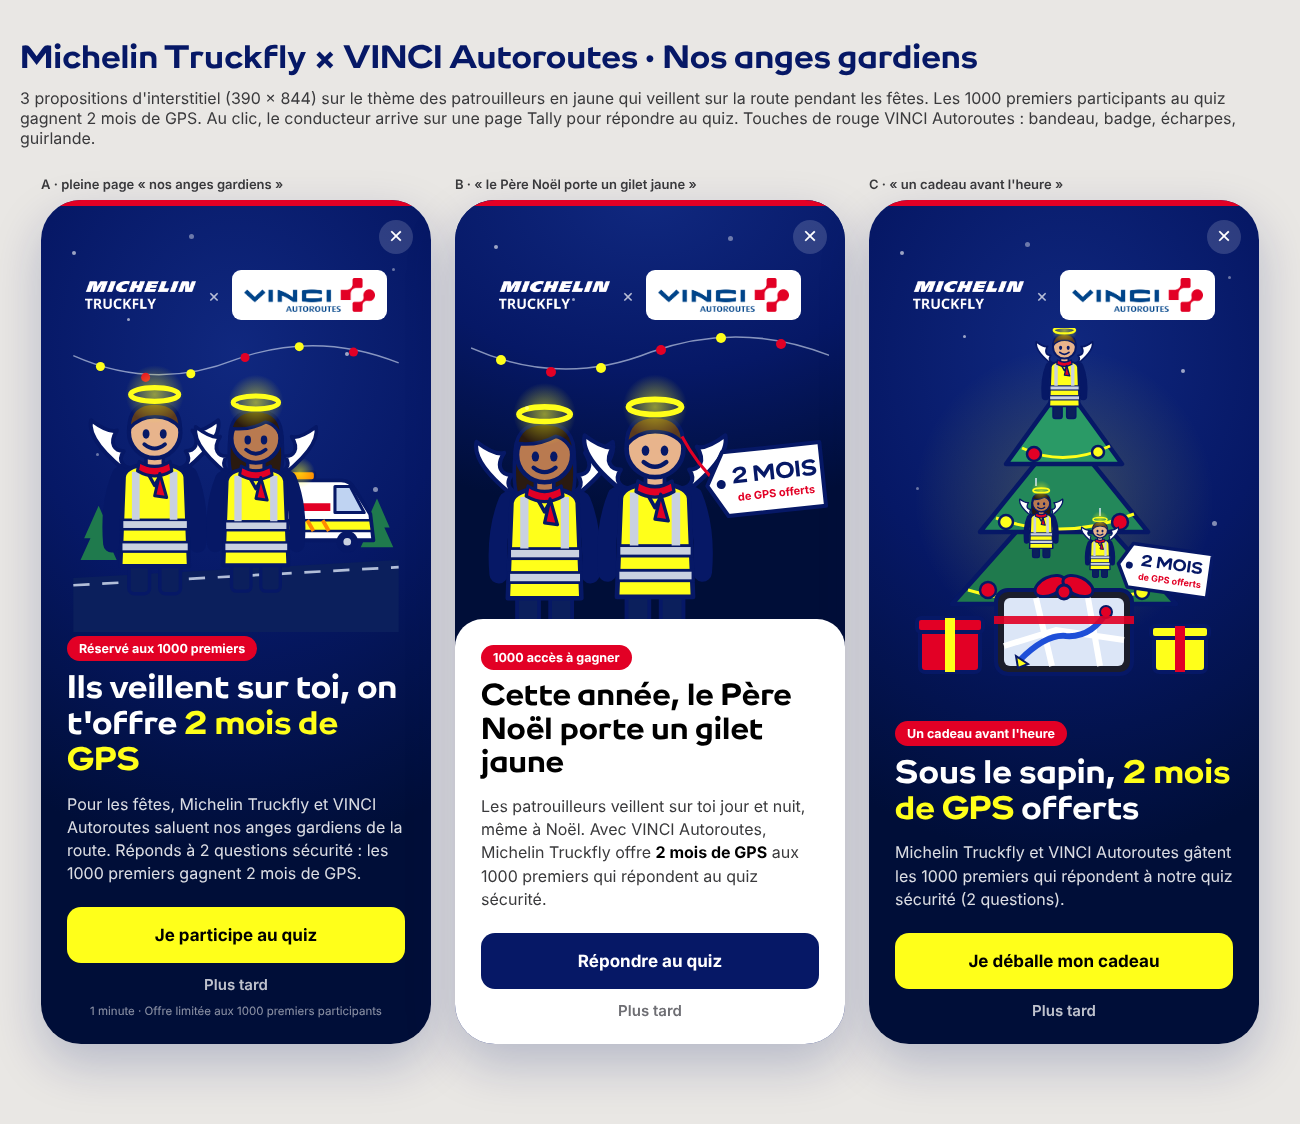
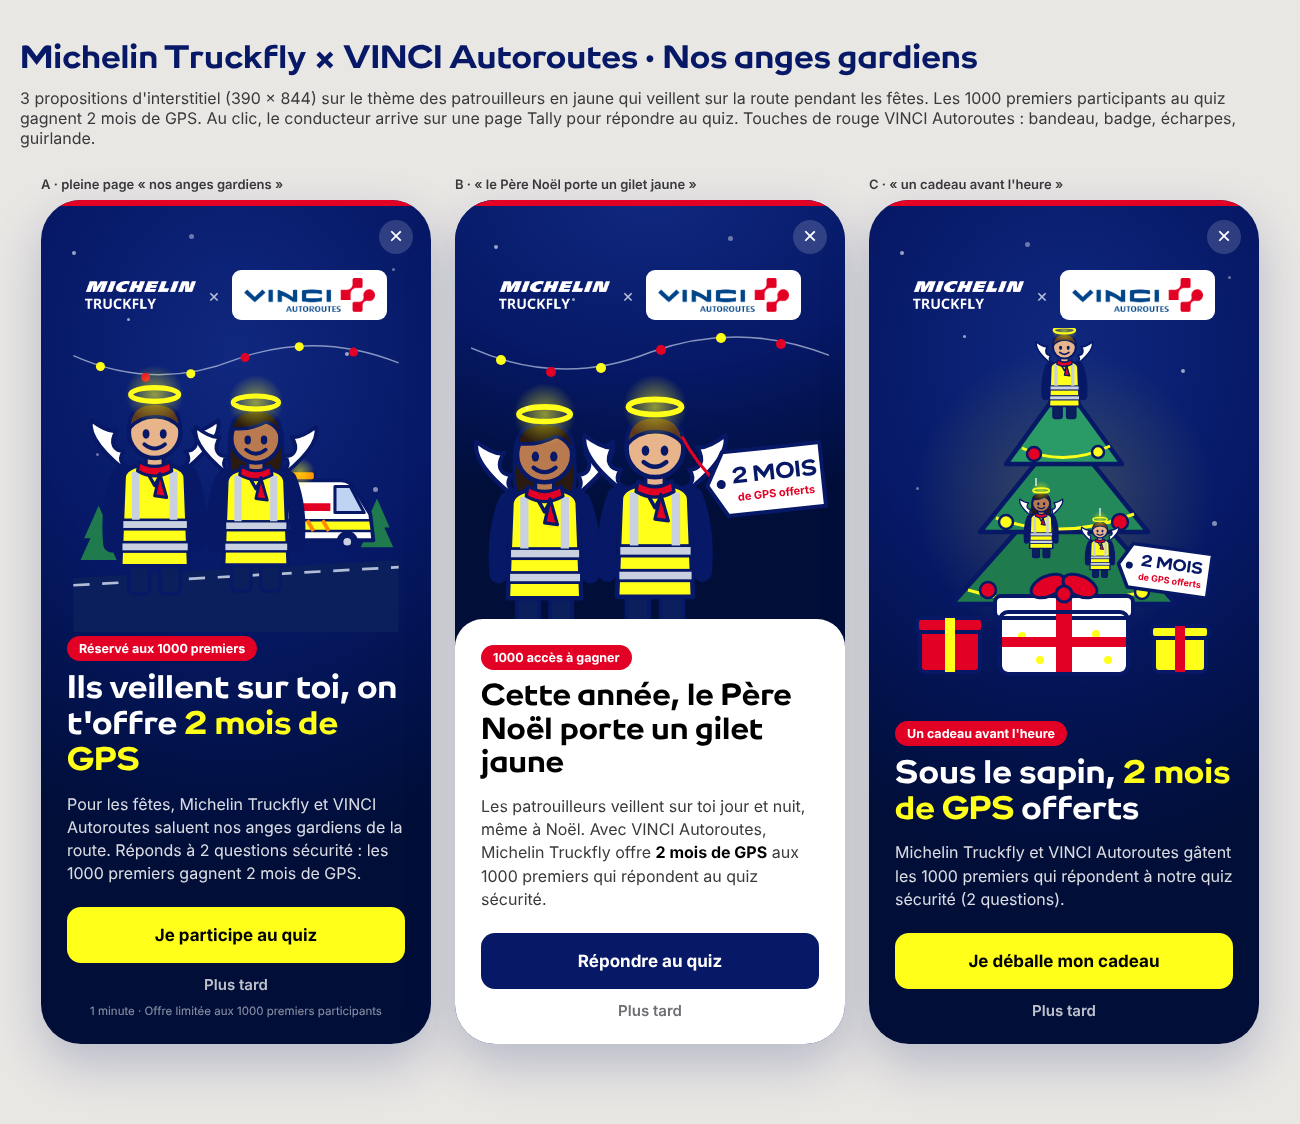
Interstitiel VINCI : cadeau classique à la place du GPS sous le sapin (proposition C)
Claude-Session: https://claude.ai/code/session_01Dxf6WJt6yEW2EorFoXnocV

Changed region(s): [[0.7692, 0.4982, 0.8923, 0.6228]]

diff --git a/interstitiels/vinci-fetes/index.html b/interstitiels/vinci-fetes/index.html
@@ -284,19 +284,17 @@ b.fort { color: #000; }
         <rect x="-3" y="2" width="58" height="12" rx="4" fill="#ffff1a" stroke="#061866" stroke-width="4" />
         <rect x="21" y="2" width="10" height="46" fill="#e20025" />
       </g>
-      <!-- le GPS, cadeau principal -->
-      <g transform="translate(112 262)">
-        <rect x="0" y="0" width="136" height="84" rx="12" fill="#1b1d2b" stroke="#061866" stroke-width="4" />
-        <rect x="8" y="8" width="120" height="68" rx="6" fill="#dce6f7" />
-        <path d="M8 56 L60 40 L128 50 M40 8 L56 76 M92 8 L104 76" fill="none" stroke="#fff" stroke-width="6" />
-        <path d="M24 70 Q50 44 70 46 Q96 48 112 20" fill="none" stroke="#1e4fd8" stroke-width="6" stroke-linecap="round" />
-        <path d="M20 66 L32 74 L22 78 Z" fill="#ffff1a" stroke="#061866" stroke-width="2" />
-        <circle cx="110" cy="22" r="6" fill="#e20025" stroke="#061866" stroke-width="2" />
-        <!-- ruban et nœud rouges -->
-        <path d="M-2 30 H138" stroke="#e20025" stroke-width="8" opacity=".9" />
-        <ellipse cx="54" cy="-4" rx="16" ry="9" transform="rotate(-25 54 -4)" fill="#e20025" stroke="#061866" stroke-width="3" />
-        <ellipse cx="82" cy="-4" rx="16" ry="9" transform="rotate(25 82 -4)" fill="#e20025" stroke="#061866" stroke-width="3" />
-        <circle cx="68" cy="2" r="7" fill="#e20025" stroke="#061866" stroke-width="3" />
+      <!-- cadeau principal -->
+      <g transform="translate(116 262)">
+        <rect x="0" y="22" width="128" height="62" rx="8" fill="#fff" stroke="#061866" stroke-width="4" />
+        <rect x="-5" y="6" width="138" height="22" rx="6" fill="#fff" stroke="#061866" stroke-width="4" />
+        <circle cx="22" cy="46" r="4" fill="#ffff1a" /><circle cx="40" cy="70" r="4" fill="#ffff1a" /><circle cx="96" cy="44" r="4" fill="#ffff1a" /><circle cx="108" cy="70" r="4" fill="#ffff1a" />
+        <rect x="56" y="6" width="16" height="78" fill="#e20025" />
+        <path d="M0 52 H128" stroke="#e20025" stroke-width="10" />
+        <rect x="0" y="22" width="128" height="62" rx="8" fill="none" stroke="#061866" stroke-width="4" />
+        <ellipse cx="48" cy="-4" rx="18" ry="10" transform="rotate(-25 48 -4)" fill="#e20025" stroke="#061866" stroke-width="3" />
+        <ellipse cx="80" cy="-4" rx="18" ry="10" transform="rotate(25 80 -4)" fill="#e20025" stroke="#061866" stroke-width="3" />
+        <circle cx="64" cy="4" r="8" fill="#e20025" stroke="#061866" stroke-width="3" />
       </g>
       <!-- étiquette -->
       <g transform="translate(234 220) rotate(8 46 22)">

diff --git a/interstitiels/vinci-fetes/LISEZMOI.md b/interstitiels/vinci-fetes/LISEZMOI.md
@@ -26,7 +26,7 @@ Pour savoir d'où vient chaque réponse, ouvrir le lien avec les paramètres `?u
 |---|---|---|---|
 | A | Pleine page : les deux anges gardiens au bord de l'autoroute, fourgon de patrouille | Ils veillent sur toi, on t'offre 2 mois de GPS | Je participe au quiz |
 | B | Visuel + feuille blanche, étiquette « 2 mois » | Cette année, le Père Noël porte un gilet jaune | Répondre au quiz |
-| C | Un cadeau avant l'heure : sapin décoré d'anges en gilet jaune (un en haut du sapin), GPS emballé sous le sapin avec l'étiquette « 2 mois » | Sous le sapin, 2 mois de GPS offerts | Je déballe mon cadeau |
+| C | Un cadeau avant l'heure : sapin décoré d'anges en gilet jaune (un en haut du sapin), gros cadeau blanc et rouge sous le sapin avec l'étiquette « 2 mois de GPS offerts » | Sous le sapin, 2 mois de GPS offerts | Je déballe mon cadeau |
 
 ## Quiz (2 questions)
 
